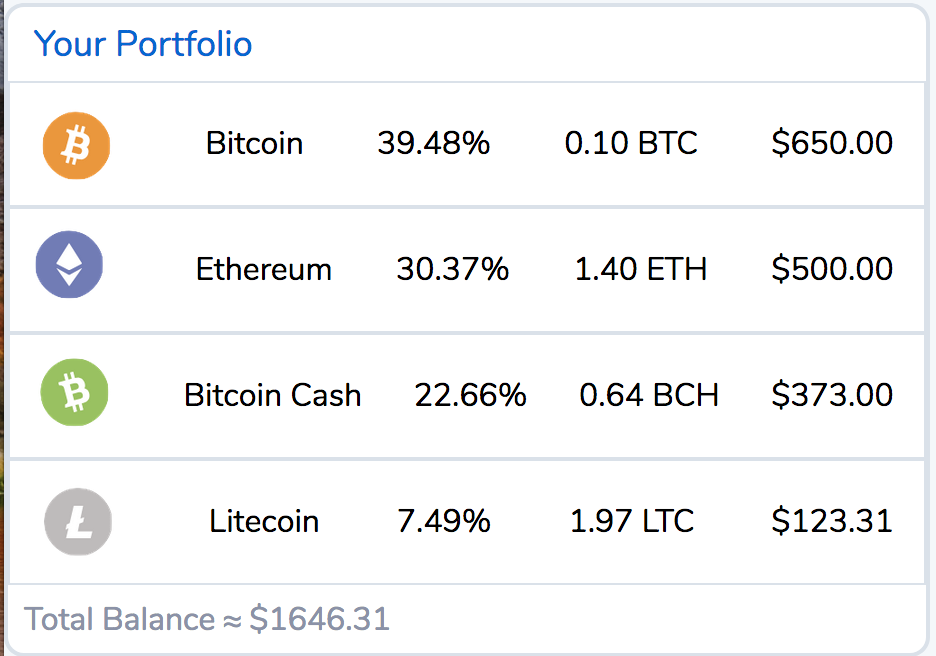
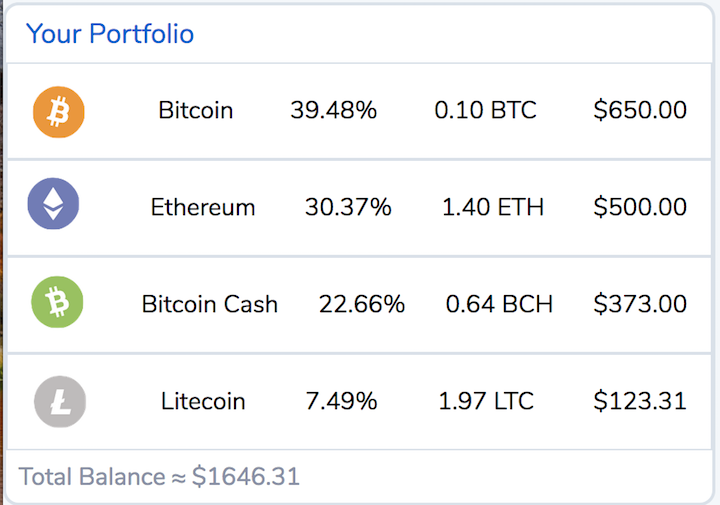
fixed image sizing

diff --git a/design_documents/readme.md b/design_documents/readme.md
@@ -35,9 +35,9 @@ The Coinspace web app was designed and built from scratch in 10 days. The propos
   * Session tokens are maintained in the browser, and status is saved through refresh
 * Portfolio
   * Users can view their portfolio and see their current coin amount for each of the four available coins
-  ![portfolio_image](Portfolio_view.png)
+  ![portfolio_image](https://github.com/Kyle01/Coinspace/blob/master/app/assets/images/images/Portfolio_view.png)
   * Portfolio keeps a record of each transactions, including execution time, price, coin amount, and coin type.
-  ![recent_transaction_image](recent_transactions.png)
+  ![recent_transaction_image](https://github.com/Kyle01/Coinspace/blob/master/app/assets/images/images/recent_transactions.png)
 * Trades
   * Users can implement trades in real time that are reflected in their portfolio.
   * Logged in users can buy coins at the current price or sell the coins in their portfolio.
